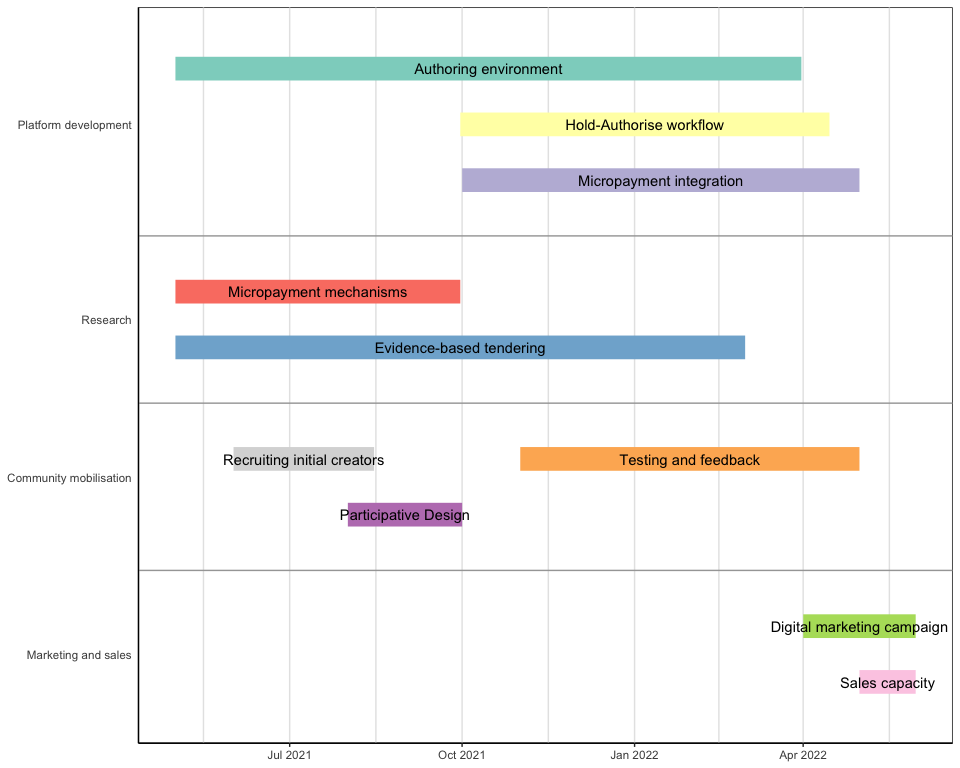
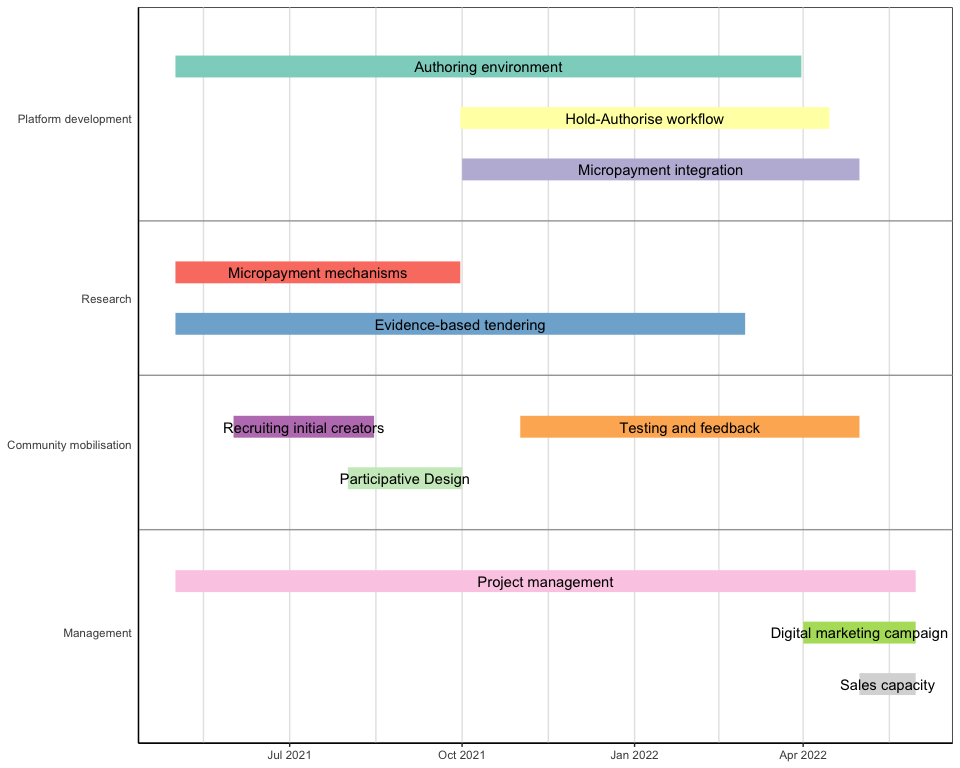
add mgmt

diff --git a/mindgarden-smartgrant-timeline.md b/mindgarden-smartgrant-timeline.md
@@ -2,15 +2,16 @@
 
 ![](mindgarden-smartgrant-timeline_files/figure-gfm/timelinechart-1.png)<!-- -->
 
-| group                  | event                       | details                                                      |
-|:-----------------------|:----------------------------|:-------------------------------------------------------------|
-| Platform development   | Authoring environment       | Tools for interactive multimedia development and device APIs |
-| Platform development   | Hold-Authorise workflow     | Content moderation, approval and feedback                    |
-| Platform development   | Micropayment integration    | Payment for content weighted by popularity                   |
-| Research               | Micropayment mechanisms     | Best approaches to creator reimbursement                     |
-| Research               | Evidence-based tendering    | Integrating science with content requirements                |
-| Community mobilisation | Testing and feedback        | Trials of content tools and payment systems                  |
-| Marketing and sales    | Digital marketing campaign  | Social media and search marketing                            |
-| Marketing and sales    | Sales capacity              | Sale of private and insitutional subscriptions               |
-| Community mobilisation | Recruiting initial creators | Identification of power users in community                   |
-| Community mobilisation | Participative Design        | Contultation and user design                                 |
+| group                  | event                       | details                                                        |
+|:-----------------------|:----------------------------|:---------------------------------------------------------------|
+| Platform development   | Authoring environment       | Tools for interactive multimedia development and device APIs   |
+| Platform development   | Hold-Authorise workflow     | Content moderation, approval and feedback                      |
+| Platform development   | Micropayment integration    | Payment for content weighted by popularity                     |
+| Research               | Micropayment mechanisms     | Best approaches to creator reimbursement                       |
+| Research               | Evidence-based tendering    | Integrating science with content requirements                  |
+| Community mobilisation | Testing and feedback        | Trials of content tools and payment systems                    |
+| Management             | Digital marketing campaign  | Social media and search marketing                              |
+| Management             | Project management          | Work package coordinaton, resourcing, monitoring and reporting |
+| Management             | Sales capacity              | Sale of private and insitutional subscriptions                 |
+| Community mobilisation | Recruiting initial creators | Identification of power users in community                     |
+| Community mobilisation | Participative Design        | Contultation and user design                                   |
